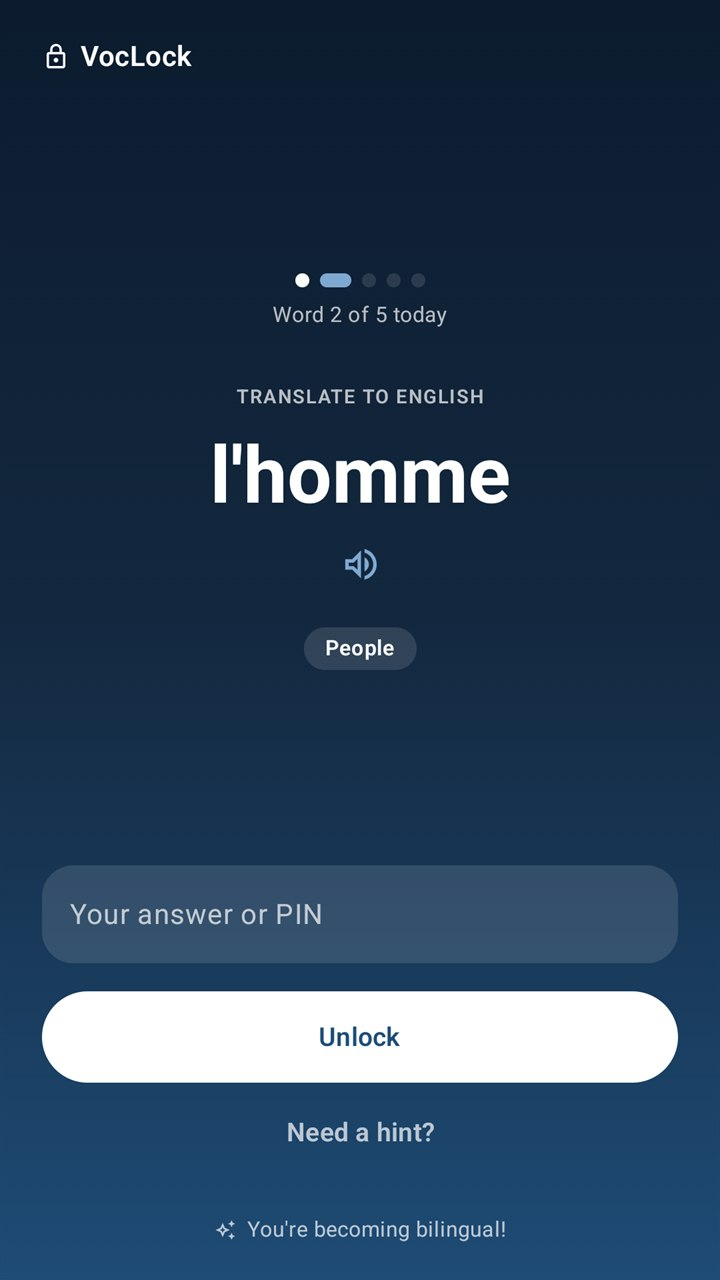
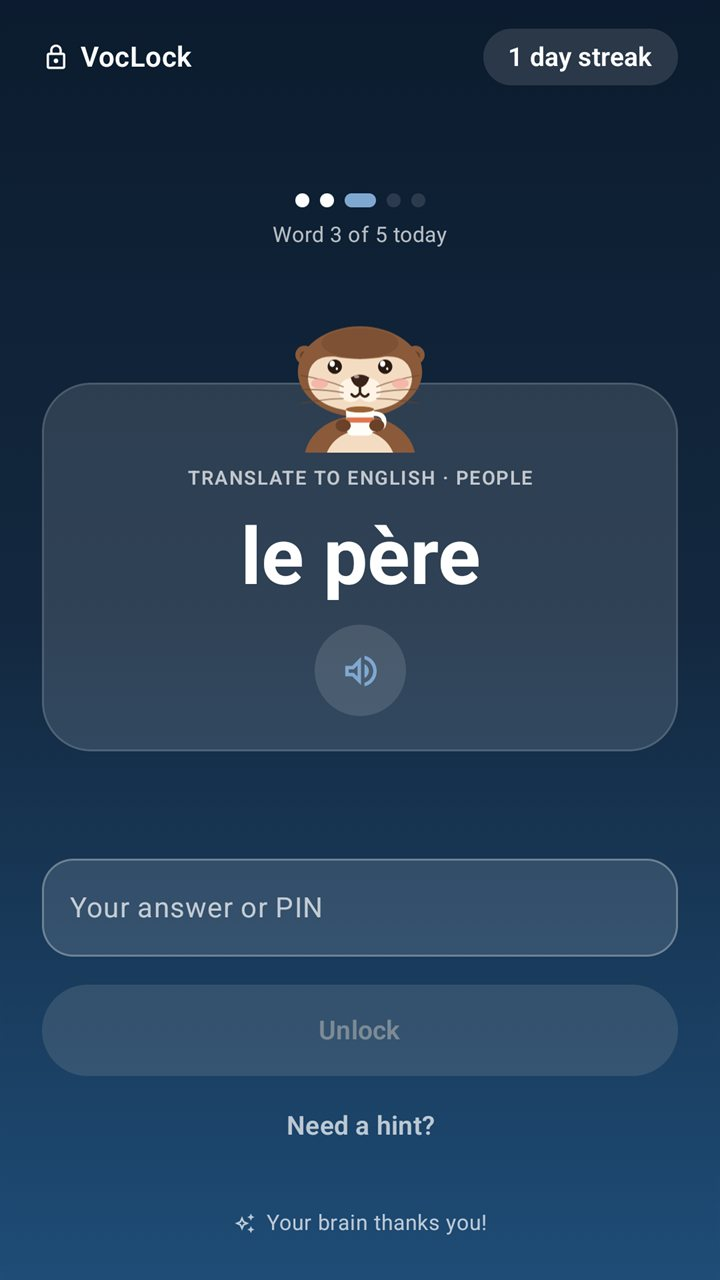
Startseite: neues Sperrbildschirm-Bild (le père) im aktuellen App-Design
Demo-Antwort, Alt-Texte und Feld-Positionen angepasst; og.png neu gerendert.

diff --git a/de/index.html b/de/index.html
@@ -16,7 +16,7 @@
 <meta property="og:title" content="VocLock – lerne neue Wörter, wenn du dein Handy entsperrst">
 <meta property="og:description" content="Ein kurzes Wort aus der Sprache, die du lernst, wenn du dein Handy entsperrst, höchstens eins alle zehn Minuten. Französisch, Spanisch, Japanisch, Koreanisch, Chinesisch und mehr.">
 <meta property="og:url" content="https://littlelockstudio.app/de/">
-<meta property="og:image" content="https://littlelockstudio.app/og.png?v=2">
+<meta property="og:image" content="https://littlelockstudio.app/og.png?v=3">
 <meta property="og:image:width" content="1200">
 <meta property="og:image:height" content="630">
 <meta property="og:image:alt" content="VocLock: Lerne neue Wörter, wenn du dein Handy entsperrst. Ein Sperrbildschirm fragt nach dem englischen Wort für maison.">
@@ -109,14 +109,14 @@
         <div>
           <div class="phone">
             <form class="screen" id="try" autocomplete="off" novalidate>
-              <img src="/img/lock-screen.jpg" width="720" height="1280" fetchpriority="high" alt="Der echte Sperrbildschirm von VocLock: Das französische Wort l'homme soll ins Englische übersetzt werden">
-              <input class="try-field" id="try-answer" aria-label="Probier es aus: Übersetze l'homme ins Englische" placeholder="Deine Antwort oder PIN" spellcheck="false" autocapitalize="off" enterkeyhint="go">
+              <img src="/img/lock-screen.jpg" width="720" height="1280" fetchpriority="high" alt="Der echte Sperrbildschirm von VocLock: Das französische Wort le père (der Vater) soll ins Englische übersetzt werden">
+              <input class="try-field" id="try-answer" aria-label="Probier es aus: Übersetze le père ins Englische" placeholder="Deine Antwort oder PIN" spellcheck="false" autocapitalize="off" enterkeyhint="go">
               <button class="try-unlock" type="submit"><span class="sr-only">Entsperren</span></button>
               <button class="try-hint" type="button" aria-label="Hinweis anzeigen"></button>
               <div class="try-done" role="status" aria-live="polite" hidden>
                 <span class="otter" aria-hidden="true"><img src="/img/otter-cheer.svg" width="200" height="200" loading="lazy" decoding="async" alt=""><span class="check">✓</span></span>
                 <strong>Entsperrt</strong>
-                <span>l'homme = the man</span>
+                <span>le père = the father</span>
                 <button class="try-again" type="button">Nochmal</button>
               </div>
             </form>

diff --git a/index.html b/index.html
@@ -16,7 +16,7 @@
 <meta property="og:title" content="VocLock – learn new words when you unlock your phone">
 <meta property="og:description" content="A quick word from the language you're learning when you unlock your phone, at most one every ten minutes. French, Spanish, Japanese, Korean, Chinese and more.">
 <meta property="og:url" content="https://littlelockstudio.app/">
-<meta property="og:image" content="https://littlelockstudio.app/og.png?v=2">
+<meta property="og:image" content="https://littlelockstudio.app/og.png?v=3">
 <meta property="og:image:width" content="1200">
 <meta property="og:image:height" content="630">
 <meta property="og:image:alt" content="VocLock: learn new words when you unlock your phone. A lock screen asks for the English word for maison.">
@@ -112,14 +112,14 @@
         <div>
           <div class="phone">
             <form class="screen" id="try" autocomplete="off" novalidate>
-              <img src="img/lock-screen.jpg" width="720" height="1280" fetchpriority="high" alt="VocLock's real lock screen asking to translate the French word l'homme to English">
-              <input class="try-field" id="try-answer" aria-label="Try it: translate l'homme to English" placeholder="Your answer or PIN" spellcheck="false" autocapitalize="off" enterkeyhint="go">
+              <img src="img/lock-screen.jpg" width="720" height="1280" fetchpriority="high" alt="VocLock's real lock screen asking to translate the French word le père (the father) to English">
+              <input class="try-field" id="try-answer" aria-label="Try it: translate le père to English" placeholder="Your answer or PIN" spellcheck="false" autocapitalize="off" enterkeyhint="go">
               <button class="try-unlock" type="submit"><span class="sr-only">Unlock</span></button>
               <button class="try-hint" type="button" aria-label="Need a hint?"></button>
               <div class="try-done" role="status" aria-live="polite" hidden>
                 <span class="otter" aria-hidden="true"><img src="img/otter-cheer.svg" width="200" height="200" loading="lazy" decoding="async" alt=""><span class="check">✓</span></span>
                 <strong>Unlocked</strong>
-                <span>l'homme = the man</span>
+                <span>le père = the father</span>
                 <button class="try-again" type="button">Try again</button>
               </div>
             </form>

diff --git a/assets/home.css b/assets/home.css
@@ -124,10 +124,10 @@
      and the Unlock button lie exactly over the ones in the picture, so the visitor can try it. */
   .screen { position: relative; margin: 0; border-radius: 32px; overflow: hidden; container-type: inline-size; background: #0c1b2e; }
   .screen img { display: block; width: 100%; height: auto; }
-  /* Measured on the 720x1280 picture: field 42..677 x 865..962, Unlock 42..677 x 992..1081. */
+  /* Measured on the 1080x1920 crop (y 120..2040 of the 1080x2092 emulator shot): field 63..1017 x 1288..1435, Unlock 63..1017 x 1477..1614, hint 1636..1741. */
   .try-field, .try-unlock, .try-hint { position: absolute; box-sizing: border-box; margin: 0; left: 5.83%; width: 88.33%; border-radius: 999px; font: inherit; }
   .try-field {
-    top: 67.58%; height: 7.66%; padding: 0 4.6cqw; border: 0.35cqw solid transparent;
+    top: 67.08%; height: 7.66%; padding: 0 3.9cqw; border: 0.35cqw solid transparent;
     background: transparent; color: #fff; font-size: max(16px, 4.3cqw); font-weight: 600; caret-color: #fff;
   }
   .try-field::placeholder { color: transparent; }
@@ -135,9 +135,9 @@
   .try-field:focus-visible { outline: 3px solid #7fa8d1; outline-offset: 2px; }
   /* Only while it shakes; afterwards the field looks like the app's again. */
   .try-field.wrong { animation: shake 0.35s; }
-  .try-unlock { top: 77.5%; height: 7.03%; border: 0; background: transparent; color: transparent; cursor: pointer; }
+  .try-unlock { top: 76.93%; height: 7.14%; border: 0; background: transparent; color: transparent; cursor: pointer; }
   .try-unlock:focus-visible, .try-hint:focus-visible, .try-again:focus-visible { outline: 3px solid #7fa8d1; outline-offset: 2px; }
-  .try-hint { top: 84.8%; height: 9%; left: 30%; width: 40%; border: 0; background: transparent; cursor: pointer; }
+  .try-hint { top: 84.2%; height: 7.5%; left: 30%; width: 40%; border: 0; background: transparent; cursor: pointer; }
   .try-done {
     position: absolute; inset: 0; display: flex; flex-direction: column; align-items: center; justify-content: center; gap: 2.5cqw;
     color: #fff; text-align: center; font-size: 5cqw; background: linear-gradient(180deg, rgba(11, 26, 44, 0.92), rgba(31, 78, 121, 0.94));

diff --git a/assets/home.js b/assets/home.js
@@ -71,7 +71,7 @@
     var form = document.getElementById("try"), field = document.getElementById("try-answer");
     if (!form || !field) return;
     var done = form.querySelector(".try-done"), note = document.getElementById("try-note");
-    var defaultNote = note ? note.textContent : "", answer = "the man", shown = 0;
+    var defaultNote = note ? note.textContent : "", answer = "the father", shown = 0;
     function resetNote() {
       if (note && note.classList.contains("wrong")) {
         note.textContent = defaultNote; note.classList.remove("wrong");
@@ -81,7 +81,7 @@
     form.addEventListener("submit", function (e) {
       e.preventDefault();
       var v = field.value.trim().toLowerCase().replace(/\s+/g, " ");
-      if (v === answer || v === "man" || v === "a man") {
+      if (v === answer || v === "father" || v === "a father" || v === "dad" || v === "the dad") {
         resetNote();
         done.hidden = false; field.blur();
         done.querySelector(".try-again").focus({ preventScroll: true });
